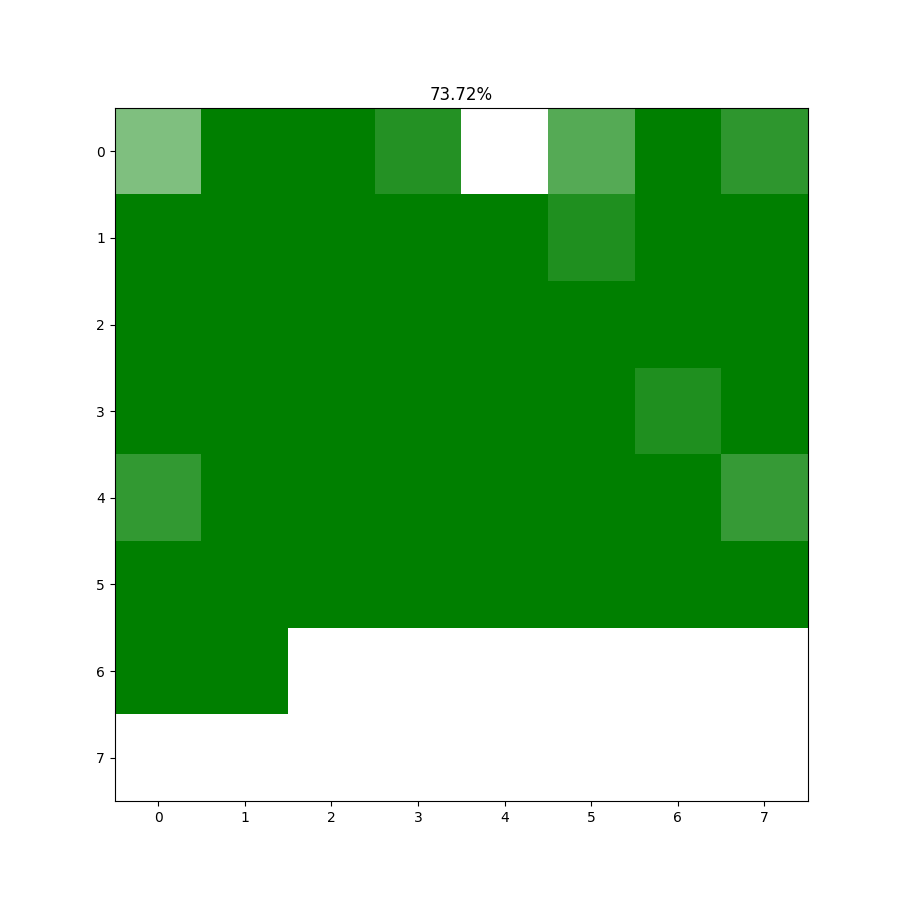
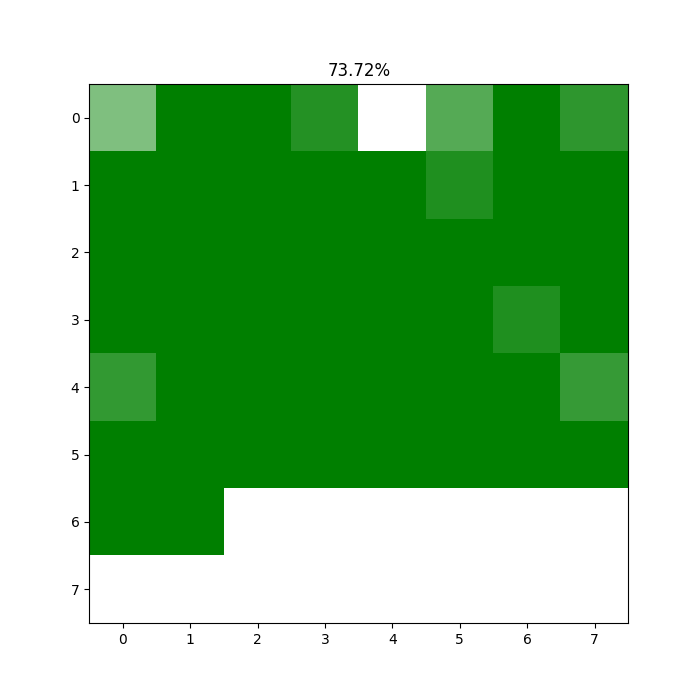
Updated plot with autosave

diff --git a/core/analysis/results_plotter.py b/core/analysis/results_plotter.py
@@ -1,3 +1,5 @@
+import os.path
+
 import matplotlib.pyplot as plt
 import numpy as np
 from  matplotlib.colors import LinearSegmentedColormap
@@ -14,9 +16,9 @@ def show_cmap():
     plt.show()
 
 
-def plot_results(res, color_min=None, color_max=None, cmap=None, figsize=(7,7)):
+def plot_results(res, color_min=None, color_max=None, cmap=None, figsize=(7,7), save_to=None):
     if cmap is None: cmap = DEFAULT_CMAP
-    plt.figure(figsize=figsize)
+    fig = plt.figure(figsize=figsize)
     a = np.array(res)
     ns = np.ceil(np.sqrt(len(res))).astype(int)
     s = np.zeros(ns ** 2)
@@ -25,6 +27,9 @@ def plot_results(res, color_min=None, color_max=None, cmap=None, figsize=(7,7)):
     plt.title("{:.2f}%".format(np.mean(y)))
     plt.imshow(y, cmap=cmap, vmin=color_min, vmax=color_max)
     plt.show()
+    plt.draw()
+    if save_to is not None:
+        fig.savefig(save_to)
 
 
 if __name__ == '__main__':

diff --git a/analysis/pdf2info_tests/show_results_pdf2info.py b/analysis/pdf2info_tests/show_results_pdf2info.py
@@ -4,12 +4,8 @@ from core.analysis.results_plotter import plot_results
 from core.analysis.check_results_over_groundtruth import load_groundtruth, check_results
 
 
-
-
 if __name__ == '__main__':
     csv_folder="csv_extracted"
-    gth = load_groundtruth("DATASET_PDFS_50/GROUNDTRUTH_DATASET.csv")
+    gth = load_groundtruth("../DATASET_PDFS_50/GROUNDTRUTH_DATASET.csv")
     res, res_percentage = check_results(csv_folder, gth, split_char='_')
-    # res into list
-    results = res_percentage
-    plot_results(results, color_min=0, color_max=100)
+    plot_results(res_percentage, color_min=0, color_max=100, save_to="../results/pdf2info_on_DATASET_PDFS_50.png")

diff --git a/analysis/tab2know_tests/show_results_tab2know.py b/analysis/tab2know_tests/show_results_tab2know.py
@@ -8,6 +8,4 @@ if __name__ == '__main__':
     csv_folder="out_tab2know/csv"
     gth = load_groundtruth("../DATASET_PDFS_50/GROUNDTRUTH_DATASET.csv")
     res, res_percentage = check_results(csv_folder, gth, split_char='-')
-    # res into list
-    results = res_percentage
-    plot_results(results, color_min=0, color_max=100)
+    plot_results(res_percentage, color_min=0, color_max=100, save_to="../results/tab2know_on_DATASET_PDFS_50.png")
